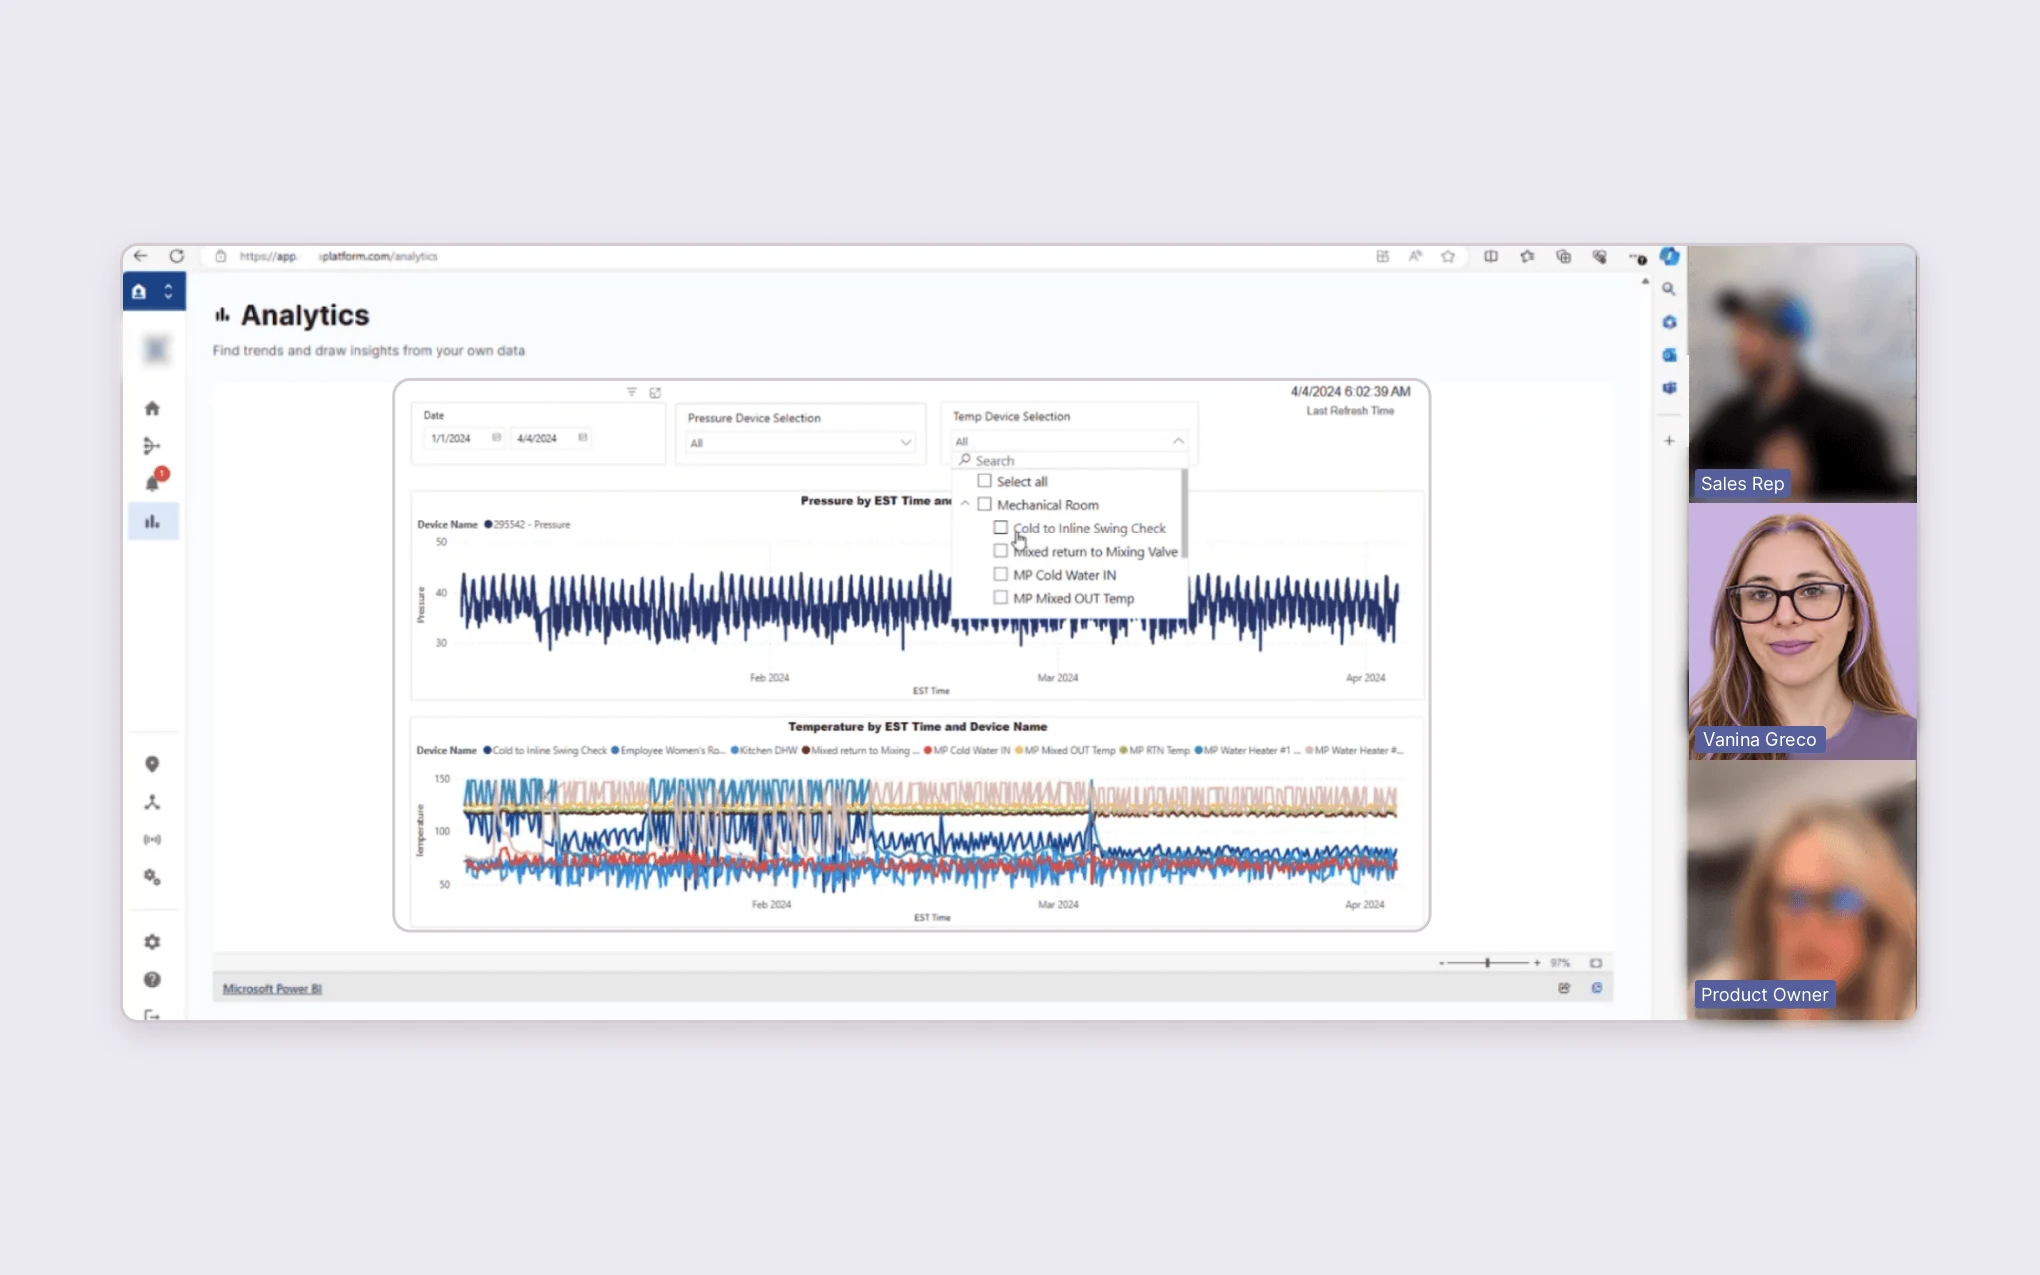
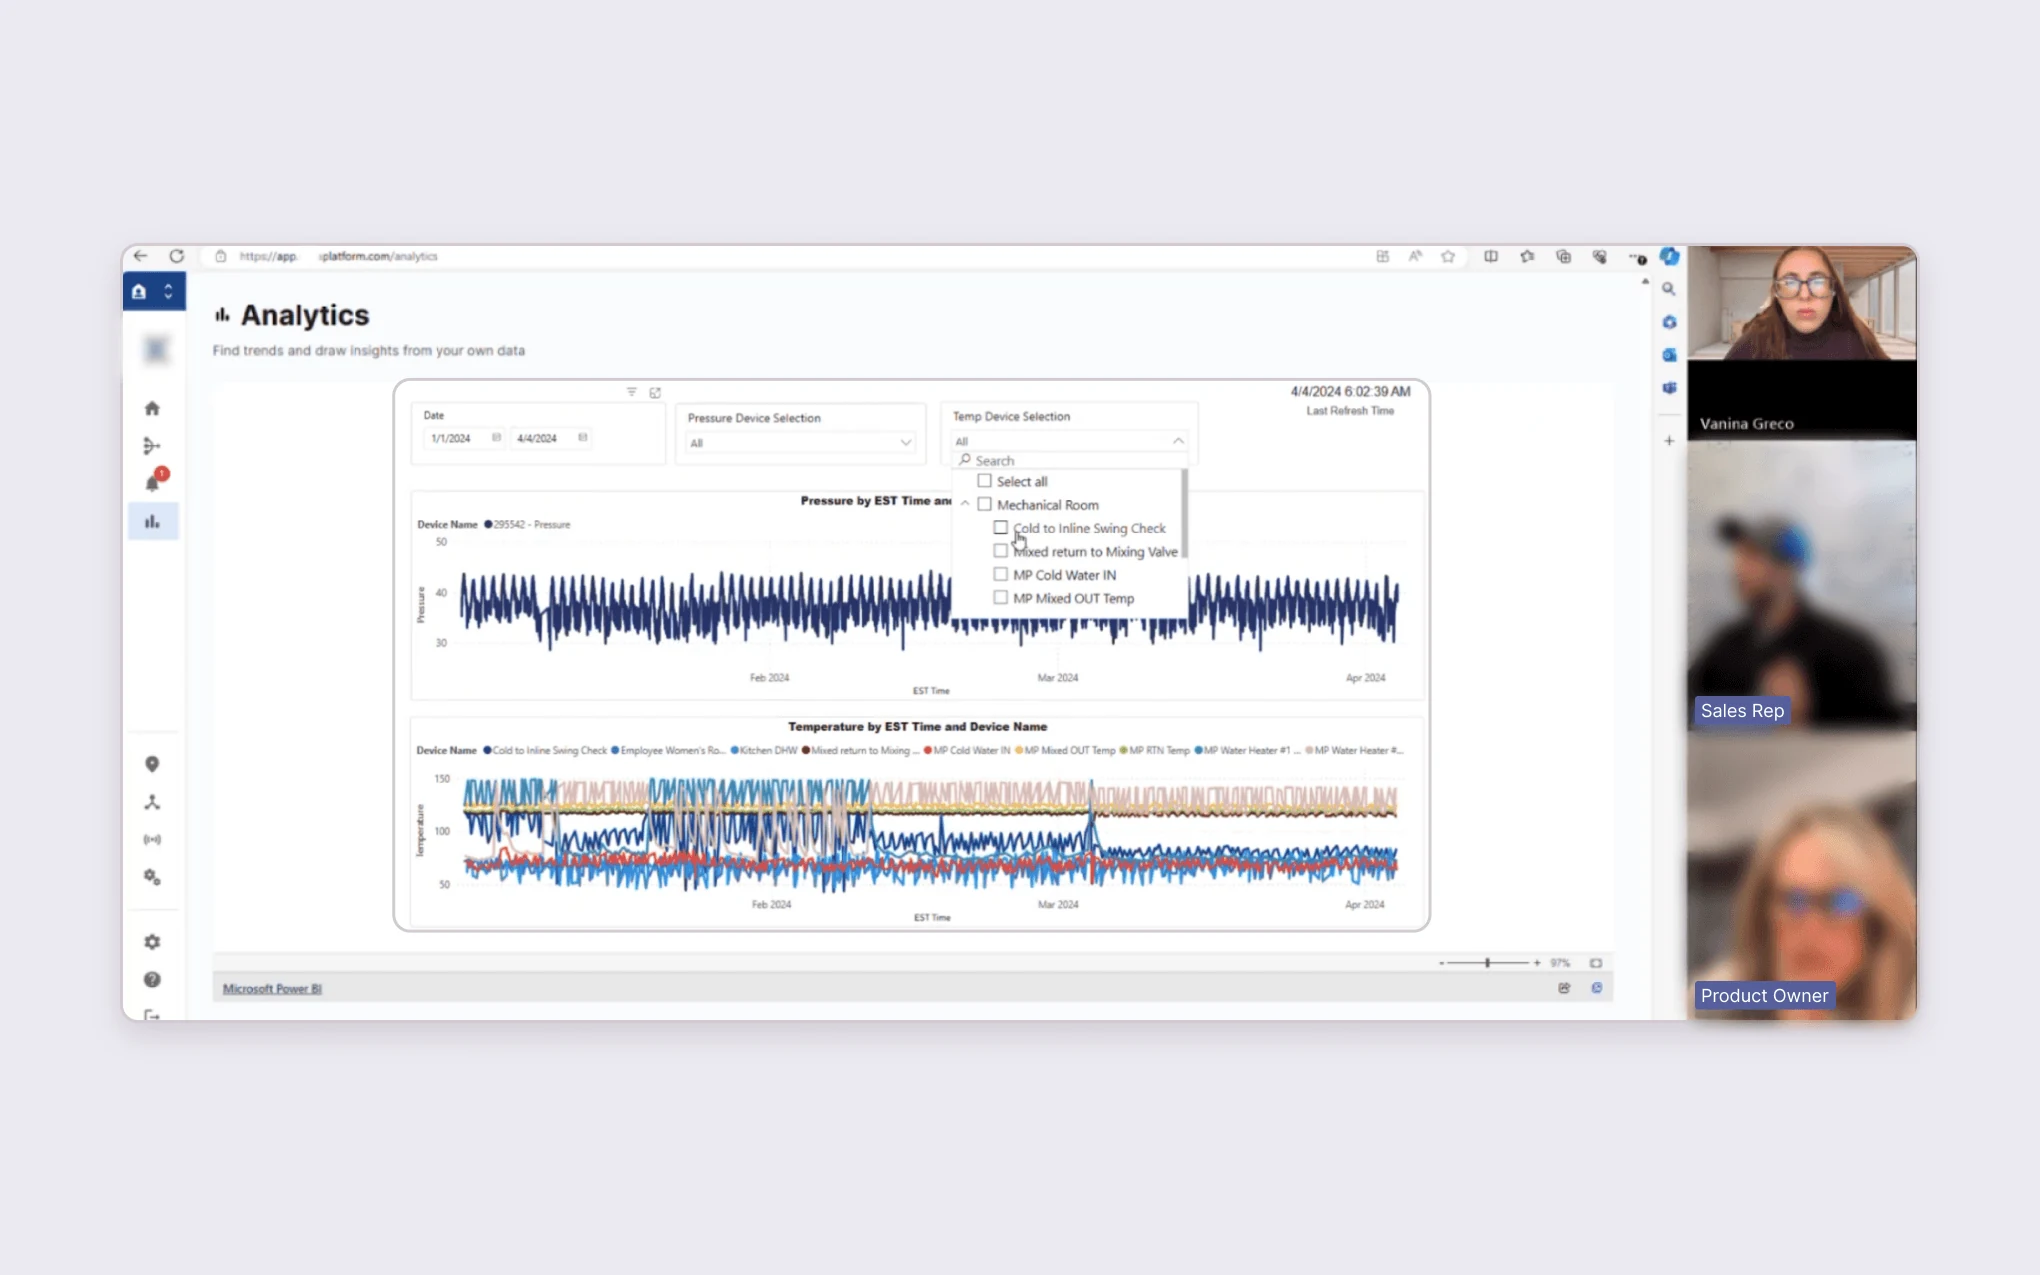
Charting: use the original user interview image for now
Claude-Session: https://claude.ai/code/session_01ScZWVYV6pDDWvBkjzV5qA5

Changed region(s): [[0.8029, 0.1835, 0.9574, 0.6118], [0.8338, 0.7647, 0.8956, 0.7953]]

diff --git a/case-studies/charting.html b/case-studies/charting.html
@@ -82,7 +82,7 @@
 <h2>1. Research</h2>
 <p>I interviewed 3 customer success representatives about how they use Power BI. The product owner joined the sessions.</p>
 <figure class="figure">
-<img src="../assets/img/charting-interview.webp?v=2" data-full="../assets/img/charting-interview-full.webp?v=2" alt="Video call screenshot of a user interview: a sales rep, with his face blurred, shows the product owner and me how he uses Power BI to chart sensor data" width="1600" height="1000" loading="lazy">
+<img src="../assets/img/charting-interview.webp?v=3" data-full="../assets/img/charting-interview-full.webp?v=3" alt="Video call screenshot of a user interview: a sales rep, with his face blurred, shows the product owner and me how he uses Power BI to chart sensor data" width="1600" height="1000" loading="lazy">
 <figcaption>A sales rep shows the product owner and me how he uses Power BI.</figcaption>
 </figure>
 <p>We discovered that users focused on two tasks in their analysis:</p>
